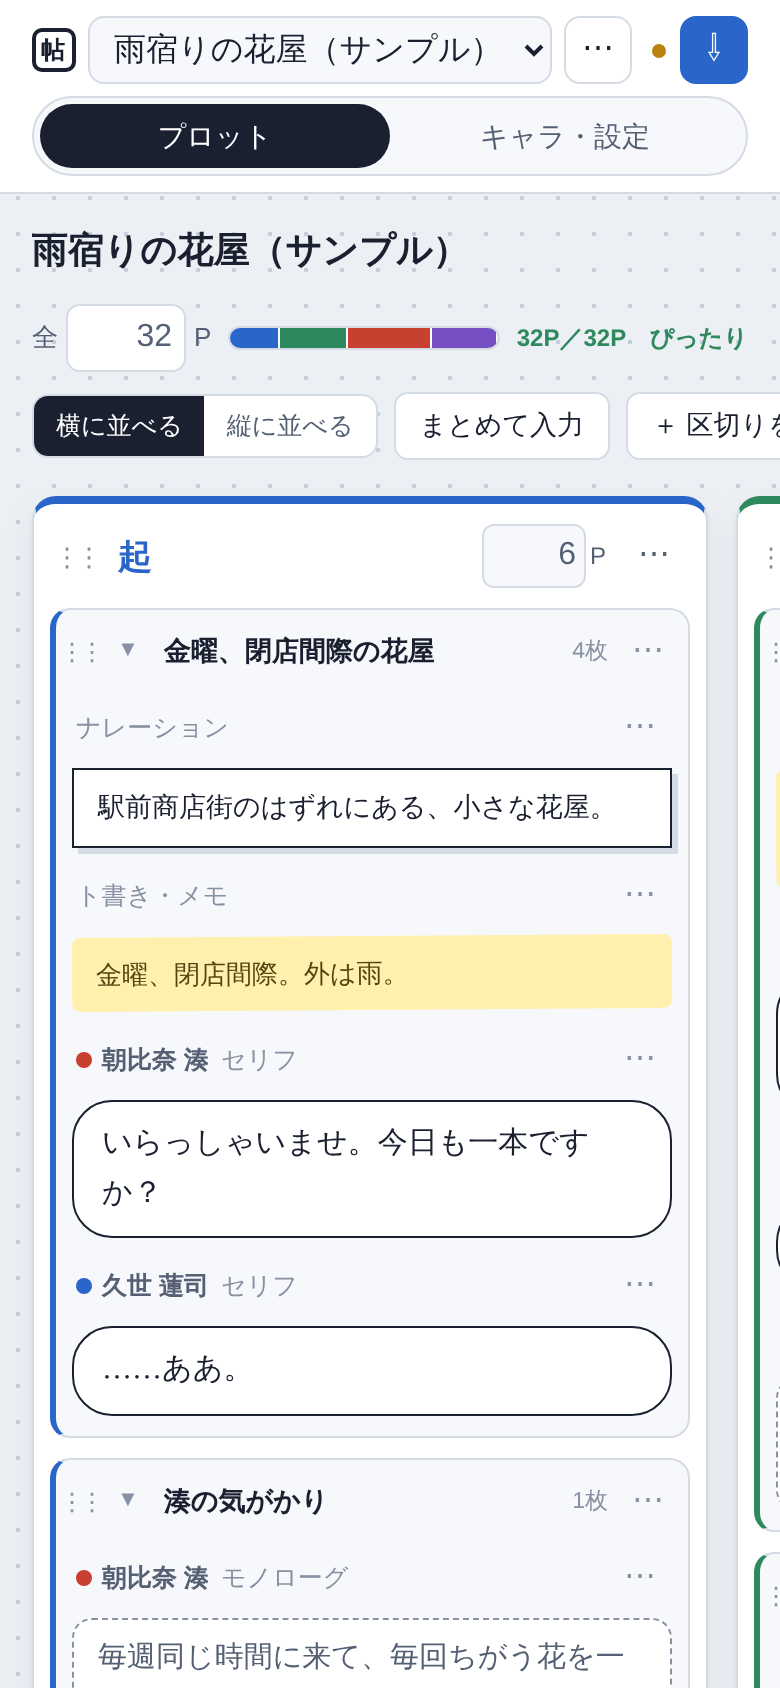
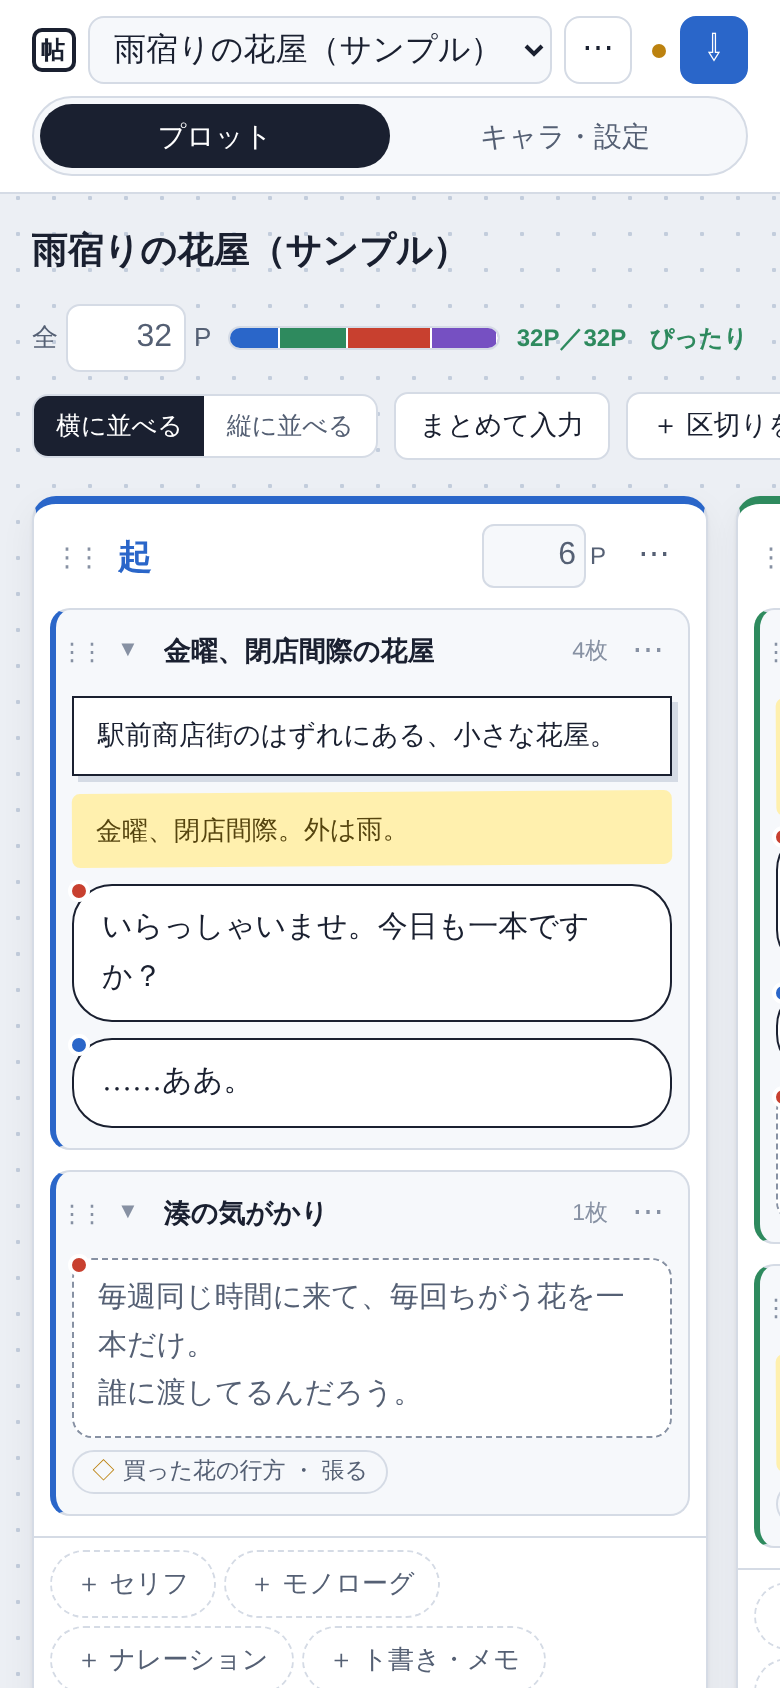
Add files via upload

diff --git a/index.html b/index.html
@@ -197,6 +197,12 @@ main{padding-left:max(16px,env(safe-area-inset-left,0px));padding-right:max(16px
 .card-meta .who::before{content:"";width:8px;height:8px;border-radius:50%;background:var(--kc,var(--line));flex:none}
 .card-meta .kind{white-space:nowrap}
 .bubble{cursor:grab}
+.card-tools{position:absolute;top:-13px;right:10px;z-index:2;display:flex;gap:1px;padding:1px;background:var(--sheet);border:1px solid var(--line);border-radius:8px;box-shadow:0 2px 8px rgba(18,28,48,.12);opacity:0;pointer-events:none;transition:opacity .12s}
+.card-tools .mini{opacity:1;width:26px;height:26px}
+.card:hover .card-tools,.card.editing .card-tools,.card:focus-within .card-tools,.card.menu-open .card-tools{opacity:1;pointer-events:auto}
+.card.dragging-card .card-tools{opacity:0}
+.spk-dot{position:absolute;left:-2px;top:-2px;z-index:1;width:11px;height:11px;border-radius:50%;background:var(--kc);border:2px solid var(--sheet);pointer-events:none}
+.card .bubble{position:relative}
 .card.editing .bubble{cursor:text;box-shadow:0 0 0 3px var(--blue-soft),0 0 0 4px var(--blue)}
 #themeBtn svg{width:18px;height:18px;display:block}
 .bubble .txt{white-space:pre-wrap;overflow-wrap:anywhere;line-height:1.65;min-height:1.65em;-webkit-user-select:none;user-select:none;-webkit-touch-callout:none}
@@ -371,7 +377,10 @@ main{padding-left:max(16px,env(safe-area-inset-left,0px));padding-right:max(16px
 @media (hover:none),(pointer:coarse){
   .mini{opacity:1;width:32px;height:32px;font-size:16px}
   .grip{width:32px;height:34px;font-size:14px}
-  .card-meta{font-size:12.5px;min-height:30px}
+  .card-tools{top:-18px}
+  .card-tools .mini{width:34px;height:34px;font-size:16px}
+  .card:hover .card-tools{opacity:0;pointer-events:none}
+  .card.editing .card-tools,.card.menu-open .card-tools{opacity:1;pointer-events:auto}
   .sec{width:330px;flex-basis:330px}
   .sec-menu{width:36px;height:36px}
   .add-chip{height:34px;padding:0 12px;font-size:13px}
@@ -890,14 +899,18 @@ function cardMeta(c){
   return h('button',{class:'card-meta','data-act':'meta','aria-label':'種類と話者を変える',title:'種類と話者を変える',style:ch?`--kc:var(--${ch.color})`:null},
     ch?h('span',{class:'who'},ch.name||'名前未設定'):null, h('span',{class:'kind'},TYPE_LABEL[c.type]));
 }
+function cardLabel(c){
+  const ch=(c.type==='serif'||c.type==='mono')?charById(c.speaker):null;
+  return (ch?(ch.name||'名前未設定')+' ・ ':'')+TYPE_LABEL[c.type];
+}
 function cardEl(c){
-  return h('article',{class:'card t-'+c.type,dataset:{id:c.id}},
-    h('div',{class:'card-bar'},
-      cardMeta(c),
-      h('span',{class:'sp'}),
-      h('button',{class:'mini','data-act':'cmenu','aria-label':'カードのメニュー',title:'追加・複製・伏線・削除'},'⋯'),
-      h('button',{class:'mini del hover-only','data-act':'del','aria-label':'削除',title:'削除'},'×')),
-    h('div',{class:'bubble','data-act':'edit',tabindex:0,role:'button','aria-label':TYPE_LABEL[c.type]+'を編集'},textView(c)),
+  const ch=(c.type==='serif'||c.type==='mono')?charById(c.speaker):null;
+  return h('article',{class:'card t-'+c.type,dataset:{id:c.id},title:cardLabel(c),style:ch?`--kc:var(--${ch.color})`:null},
+    h('div',{class:'bubble','data-act':'edit',tabindex:0,role:'button','aria-label':cardLabel(c)+'を編集'},textView(c)),
+    ch?h('span',{class:'spk-dot','aria-hidden':'true'}):null,
+    h('div',{class:'card-tools'},
+      h('button',{class:'mini','data-act':'cmenu','aria-label':'カードのメニュー',title:'種類・話者・複製・伏線'},'⋯'),
+      h('button',{class:'mini del','data-act':'del','aria-label':'削除',title:'削除'},'×')),
     fsTag(c));
 }
 function startEdit(el){
@@ -978,7 +991,7 @@ function renderBoard(){
   const anim=REDUCED?0:150;
   // カード全体をつかんで動かす。タッチは長押しで持ち上げる（そのまま動かすとスクロール）
   const opts={animation:anim,forceFallback:true,fallbackOnBody:true,delay:220,delayOnTouchOnly:true,touchStartThreshold:6,fallbackTolerance:3,scroll:true,scrollSensitivity:80,bubbleScroll:true,preventOnFilter:false,
-    onStart:()=>{ board.classList.add('dragging'); if(navigator.vibrate) try{ navigator.vibrate(12); }catch{} },
+    onStart:()=>{ popEl?.remove(); popEl=null; board.classList.add('dragging'); if(navigator.vibrate) try{ navigator.vibrate(12); }catch{} },
     onEnd:()=>{ board.classList.remove('dragging'); dragEndAt=Date.now(); syncFromDom(); }};
   sortables.push(Sortable.create(board,{...opts,handle:'.sec-head',draggable:'.sec',filter:'input,button,label'}));
   board.querySelectorAll('.scenes').forEach(el=>sortables.push(Sortable.create(el,{...opts,group:'scenes',handle:'.scene-head',draggable:'.scene',filter:'input,button',swapThreshold:.5})));
@@ -1075,6 +1088,7 @@ board.addEventListener('input',e=>{
   else if(t.matches('.sec-title')){ secOf(t).title=t.value; touch(); sideSoon(); tempSoon(); }
   else if(t.matches('.sec-pages input')){ secOf(t).pages=Math.max(0,Math.round(Number(t.value)||0)); touch(); updateStats(); }
 });
+board.addEventListener('mousedown',e=>{ if(e.target.closest('.card-tools')) e.preventDefault(); });
 board.addEventListener('focusout',e=>{
   if(e.target.matches('.card textarea')){ const el=e.target.closest('.card'); setTimeout(()=>{ if(!el.contains(document.activeElement)) endEdit(el); },0); }
 });
@@ -1254,13 +1268,26 @@ function viewImage(c,i){
 
 /* ---------- card menu & foreshadowing ---------- */
 function cardMenu(anchor,scene,idx,card){
-  popover(anchor,close=>[
+  const el=anchor.closest('.card'); el&&el.classList.add('menu-open');
+  const speaking=card.type==='serif'||card.type==='mono';
+  popover(anchor,close=>{ const set=fn=>()=>{ fn(); close(); touch(); rerenderCard(card.id); updateStats(); }; return [
+    h('div',{class:'label'},'種類'),
+    h('div',{class:'chips'},...TYPES.map(([k,l])=>h('button',{class:'chip'+(card.type===k?' on':''),onclick:set(()=>{
+      card.type=k;
+      if(k!=='serif'&&k!=='mono') card.speaker='';
+      else if(!card.speaker){ const f=findCard(card.id); card.speaker=guessSpeaker(f.scene,f.idx,k); }
+    })},l))),
+    speaking&&P().chars.length?[
+      h('div',{class:'label'},'話者'),
+      h('div',{class:'chips'},...P().chars.map(x=>h('button',{class:'chip spk'+(card.speaker===x.id?' on':''),style:`--kc:var(--${x.color})`,onclick:set(()=>{ card.speaker=x.id; })},x.name||'名前未設定')),
+        h('button',{class:'chip'+(!card.speaker?' on':''),onclick:set(()=>{ card.speaker=''; })},'なし'))]:null,
+    h('hr'),
     h('button',{class:'item',onclick:()=>{ close(); addCard(scene,card.type,idx+1); }},'下にカードを追加'),
     h('button',{class:'item',onclick:()=>{ close(); addCard(scene,card.type,idx+1,card); }},'複製'),
     h('button',{class:'item',onclick:()=>{ close(); fsMenu(anchor,card); }},card.fs?'伏線を変更…':'伏線を付ける…'),
     h('hr'),
     h('button',{class:'item danger',onclick:()=>{ close(); removeCard(scene,idx,card); }},'削除')
-  ]);
+  ]; });
 }
 function fsMenu(anchor,card){
   const p=P();
@@ -1498,7 +1525,7 @@ new ResizeObserver(()=>document.documentElement.style.setProperty('--barh',$('.a
 let popEl=null;
 function popover(anchor,build){
   popEl?.remove();
-  const close=()=>{ popEl?.remove(); popEl=null; document.removeEventListener('pointerdown',outside,true); document.removeEventListener('keydown',esc); };
+  const close=()=>{ popEl?.remove(); popEl=null; document.removeEventListener('pointerdown',outside,true); document.removeEventListener('keydown',esc); document.querySelectorAll('.card.menu-open').forEach(c=>c.classList.remove('menu-open')); };
   const outside=e=>{ if(popEl&&!popEl.contains(e.target)&&e.target!==anchor) close(); };
   const esc=e=>{ if(e.key==='Escape') close(); };
   popEl=h('div',{class:'pop',role:'menu'},build(close));

diff --git a/help.html b/help.html
@@ -204,12 +204,17 @@ article img[width]{width:auto}
 <li>文章の途中でEnterを2回押すと、そこから後ろが次のカードに分かれます。</li>
 <li>区切りのいちばん下にある「＋ セリフ」「＋ モノローグ」などのボタンでも追加できます。</li>
 </ul>
+<h3 id="と">「⋯」と「×」</h3>
+<p>カードの右上に「⋯」と「×」が出ます。PCではカードにマウスをのせたとき、スマホ・タブレットではカードを押して書いているときに出ます。</p>
+<p><img loading="lazy" decoding="async" width="286" alt="カードの右上のボタン" src="docs/screenshots/24-card-tools.png" /></p>
+<ul>
+<li><strong>×</strong>: カードを削除します。削除したあと、画面の下に出る「元に戻す」を押すと戻せます。</li>
+<li><strong>⋯</strong>: 種類と話者の変更、下にカードを追加、複製、伏線、削除ができます。</li>
+</ul>
+<p>カードの左上の小さな丸は、話者のキャラの色です。PCでは、カードにマウスをのせると話者と種類が表示されます。</p>
 <h3 id="種類と話者を変える">種類と話者を変える</h3>
-<p>カードの上の「朝比奈 湊 ・ セリフ」のような表示を押すと、種類と話者を選べます。話者はキャラの色で表示されます。</p>
+<p>カードの「⋯」を押すと、上に「種類」と「話者」が出ます。選ぶとすぐに変わります。</p>
 <p><img loading="lazy" decoding="async" width="336" alt="種類と話者を選ぶ" src="docs/screenshots/03-card-meta.png" /></p>
-<h3 id="複製伏線削除">複製・伏線・削除</h3>
-<p>カードの右上の「⋯」から選びます。PCでは、カードにマウスをのせると出る「×」でも削除できます。削除したあと、画面の下に出る「元に戻す」を押すと戻せます。</p>
-<p><img loading="lazy" decoding="async" width="286" alt="カードのメニュー" src="docs/screenshots/04-card-menu.png" /></p>
 
 <h2 id="カードを並べ替える">カードを並べ替える</h2>
 <p>カードそのものをつかんで、好きな場所に動かします。別のシーンや別の区切りへも移せます。</p>

diff --git a/sw.js b/sw.js
@@ -1,5 +1,5 @@
 /* プロット帖 — オフラインでも開けるようにするための仕組み */
-var VERSION = 'plotcho-v7';
+var VERSION = 'plotcho-v8';
 var FILES = [
   './',
   './index.html',
